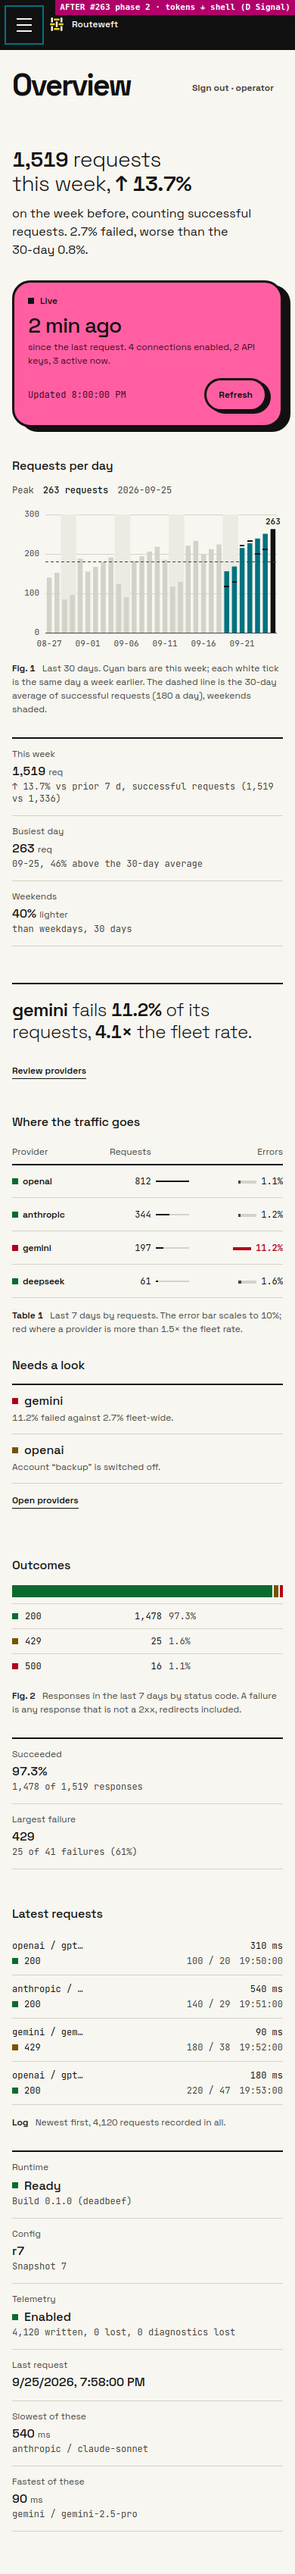
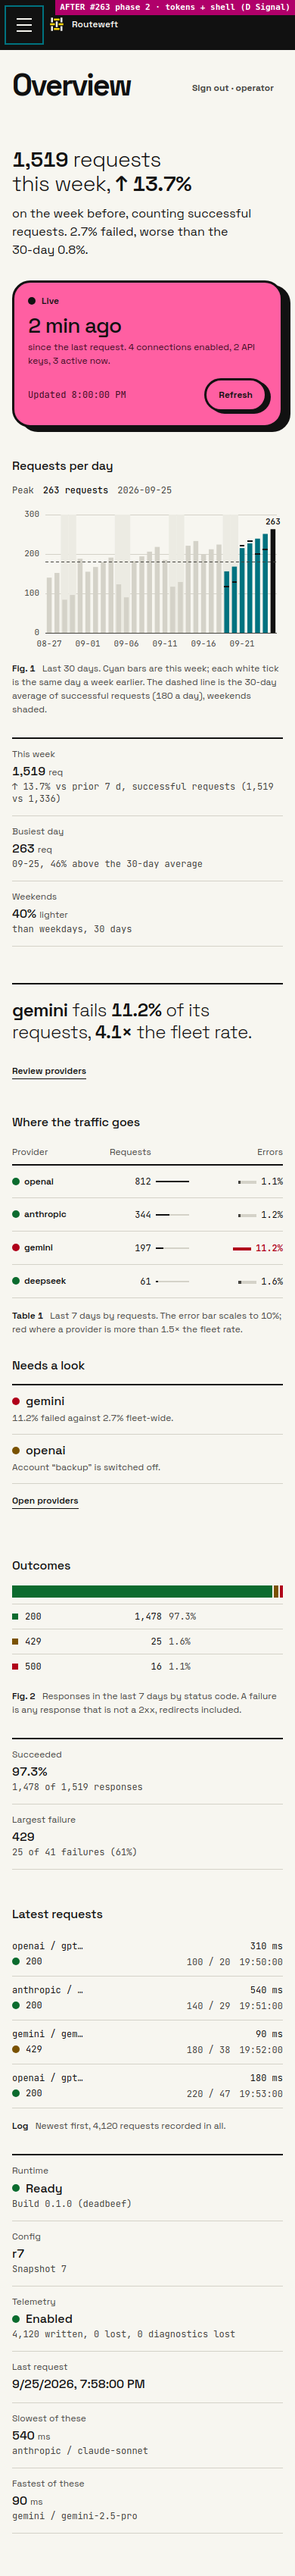
feat(ui): #263 phase 2, round status dots (owner lifted the square freeze)
Owner decision (Suhu, 2026-10-28): the "square dot plus word" freeze is
lifted; status marks follow direction D. Only "never colour alone" stays.

- style.css: .dot is a 10px round mark (50% radius), still beside its word.
- shell-smoke.cjs: the radius allow-list admits 50% on .dot only; every
  visible dot must be round and its parent must carry a word; Overview and
  Providers must show dots, so the checks are not vacuous. Nothing else
  changes.
- UI_STYLE.md §5, §6, §11, §12, BDR-027 and the preview README record the
  owner's 2026-10-28 decision instead of the conditional square.
- Re-captured the after screenshots that show status dots.

diff --git a/ui/src/style.css b/ui/src/style.css
@@ -828,7 +828,8 @@ h1 { font-size: var(--t-poster); font-weight: 700; letter-spacing: -.055em; line
 .accent-surface .chart-ghost { stroke: var(--accent-fg); }
 
 /* status squares: the word is always beside the mark */
-.dot { display: inline-block; width: 8px; height: 8px; flex: 0 0 auto; background: var(--text-muted); }
+/* Status marks are round (owner, 2026-10-28) and never stand alone: the word sits beside the dot. */
+.dot { display: inline-block; width: 10px; height: 10px; flex: 0 0 auto; border-radius: 50%; background: var(--text-muted); }
 .dot-live { background: var(--live); }
 .dot-good { background: var(--success); }
 .dot-warn { background: var(--warning); }

diff --git a/docs/UI_STYLE.md b/docs/UI_STYLE.md
@@ -179,9 +179,10 @@ Implemented in `ui/src/editorial.tsx` and `ui/src/style.css`.
 - **Two separator weights do different jobs:** a 6px ink rule opens a section,
   statement or margin list (4px under a table head); 1px `--border-subtle` rules
   separate rows.
-- **Status is never colour alone:** a mark beside the word. The mark stays an
-  8px square: #263 froze "square dot plus word". The D preview drew 10px circles;
-  phase 2 keeps the square unless the owner lifts that freeze. One
+- **Status is never colour alone:** a 10px round dot (`.dot`, 50% radius) always
+  beside its word. #263 first froze "square dot plus word"; the owner lifted the
+  shape part on 2026-10-28, so the mark follows D. The word beside it stays
+  frozen. One
   classification serves every mark: HTTP 2xx good, 3xx idle (a hollow mark), 4xx warn, 5xx bad.
   A provider's mark is red under the same rule as its error figure (below).
   A *failure* is any response that is not a 2xx, the API's own definition of
@@ -217,7 +218,7 @@ Implemented in `ui/src/editorial.tsx` and `ui/src/style.css`.
   (`ui/src/format.typecheck.ts` fails `npm run typecheck` if that changes), and a unit test checks that no result depends
   on the length of the zero-filled window.
 - **Share bars** all use one baseline, `largest()` of the values present, never the first row.
-- **Provider table (Table 1):** provider with status square, requests, a thin
+- **Provider table (Table 1):** provider with status dot, requests, a thin
   share bar, and the error rate with its own bar scaled to 10%. The error bar and
   figure turn `--danger` only when a provider is above 1.5x the fleet rate, above
   3%, with at least 50 requests. At 390px the share bar shrinks to a thin inline
@@ -322,6 +323,8 @@ Quoted from the previous version (git `f15b350`), each replaced as above:
 - §4: "Active navigation: 2px `--live` left rule ... No active background pill."
   Now a yellow pill on a black rail.
 - §4a: "`theme-color` tags, light `#f4f4f2` and dark `#0c0e11`."
+- §5: "Status is never colour alone: an 8px square (`.dot`) beside the word." Now
+  a 10px round dot (owner, 2026-10-28); the word beside it is unchanged.
 - §5: "a 2px ink rule opens a section" (now 6px) and "It has a 2px `--live` left
   rule." (now the pink slab).
 - §7: "Empty: a ruled box" and "Error: left rule in the danger colour". Now 24px
@@ -334,7 +337,8 @@ Quoted from the previous version (git `f15b350`), each replaced as above:
 
 Unchanged: the editorial layout (§1, §5), the navigation table, drawer, 44px
 targets and 320px rule (§4), the mark drawing (§4a), status never shown by
-colour alone with a square mark and every data rule (§5, §6), loading (§7), 4.5:1
+colour alone (the mark beside its word; the mark is now round) and every data
+rule (§5, §6), loading (§7), 4.5:1
 text and 3:1 boundaries (§8), themes and motion (§9).
 
 ## 12. Phase 2 guard specification (D)
@@ -353,7 +357,9 @@ Rewritten:
    only on its owner from §2 (pills on `.nav-link`, buttons, inputs, selects,
    `.state-tag`, `.ed-bar`, highlight blocks; `32px`/`24px` on `.accent-surface`;
    `24px` on empty and error states; `22px` on `.provider-option`; `20px` on
-   `textarea`; `50%` only on `.dot`, if the owner lifts the square-mark freeze).
+   `textarea`; `50%` only on `.dot`, the round status mark the owner chose on
+   2026-10-28). Every visible `.dot` is round (`50%`), and its parent carries a
+   word beside it (status is never colour alone).
    Any other value fails with the element and corner named.
 2. **Type sizes** (`:60-61`, asserts `:77-80`; per page `:1438-1441`, assert
    `:1558`). Today: 11/12/16/28px (24px on a phone), 12 and 28 required, 11 only in

diff --git a/docs/BDR.md b/docs/BDR.md
@@ -371,7 +371,8 @@ Antares); light and dark set the same token names.
 Kept as Routeweft's own: the weave mark; Space Grotesk prose with JetBrains Mono
 for technical values and labels; cyan `--live` for current data; the editorial
 layout of UI_STYLE §1 and §5; the black rail; its own pink, yellow and cyan
-palette; the asymmetric shadow; a square status mark beside a word. Excluded:
+palette; the asymmetric shadow; a status mark that always sits beside its word.
+Excluded:
 Richmod's Fraunces and cream/teal palette, Antares' cobalt action colour, marker
 gradient and two-tone focus halo.
 
@@ -397,9 +398,9 @@ error-state, accent-surface, active-nav, focus, theme-color and favicon checks
 take D's values. `docs/UI_STYLE.md` §2 carries D's tokens with their measured
 contrast, and §12 specifies every guard change and the new assertions (3:1
 control boundaries, the menu button against its header, shell edges, shadows,
-titles at 320px) for phase 2. The phase 1 previews showed a 10px round status
-mark; #263 froze "square dot plus word", so the contract keeps the square
-unless the owner lifts that freeze.
+titles at 320px) for phase 2. Status marks: #263 first froze "square dot plus
+word". The owner lifted the shape part on 2026-10-28, so the mark is D's 10px
+round dot; the word beside it stays frozen (status is never colour alone).
 
 Phase 2 implements the tokens, the shell and the §12 guards; phases 3 (page
 bodies) and 4 (charts, mark) follow. Each phase changes code, guards and the

diff --git a/ui/preview/263/README.md b/ui/preview/263/README.md
@@ -41,8 +41,9 @@ D after the choice (round 3, `d-signal.css` only):
   Holding Sign out at full width without wrapping made it worse (22px), because
   the title cannot shrink below "Capability". No guard-breaking change was
   needed beyond the type-scale rewrite D already implies.
-- Status marks: the preview draws 10px circles. #263 froze "square dot plus
-  word", so the contract keeps squares unless the owner lifts the freeze.
+- Status marks: the preview draws 10px circles. #263 first froze "square dot
+  plus word"; the owner lifted the shape part on 2026-10-28, so phase 2 ships
+  the round dot. The word beside it stays frozen.
 
 ## Run
 
@@ -183,7 +184,7 @@ Adapter at 320px. B, not chosen: its light phone menu button is invisible (bars
 
 Pre-existing in every direction and in the current UI: the phone request log
 truncates the route (`openai / gpt…`) even when there is room, because
-`.log-route` shares the row with the latency (phase 3). The provider square in
+`.log-route` shares the row with the latency (phase 3). The provider mark in
 "Needs a look" on Providers sits below its word at 390px.
 
 ## Executable guards that encode the BDR-015 contract (at `f15b350`)
